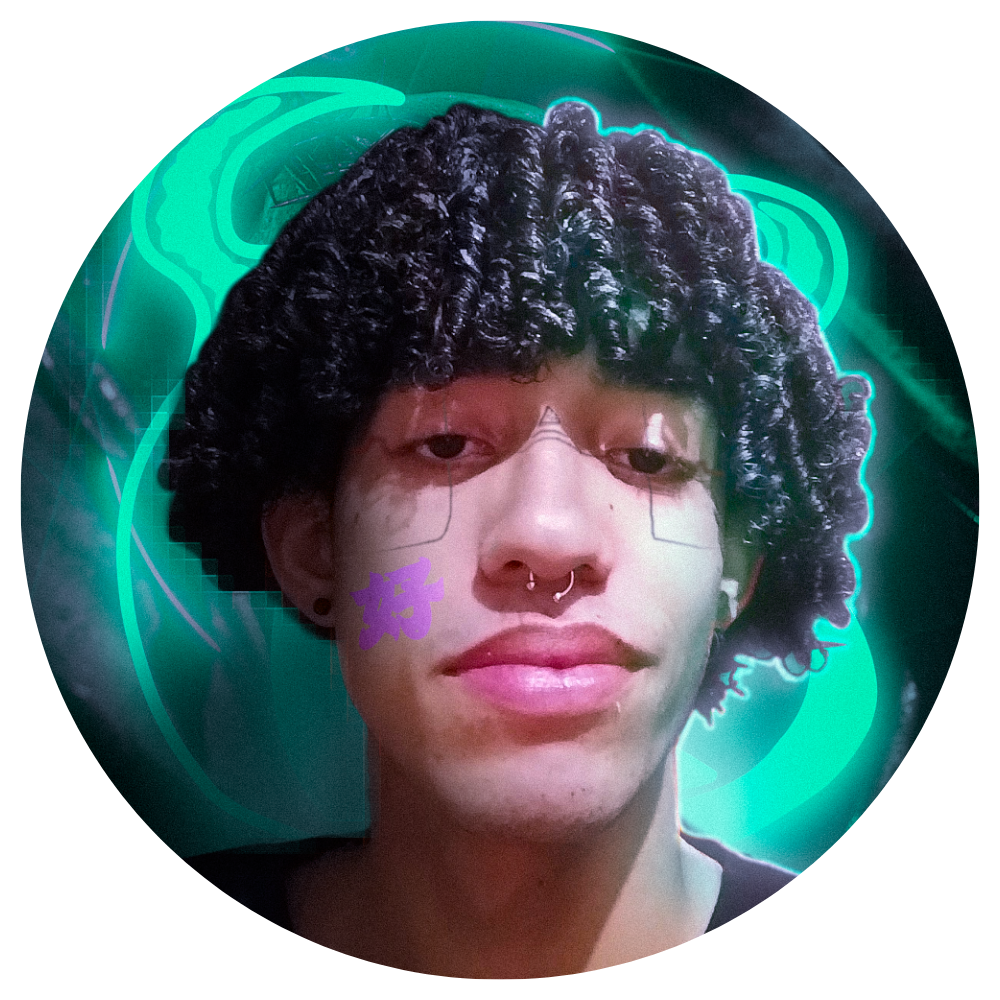
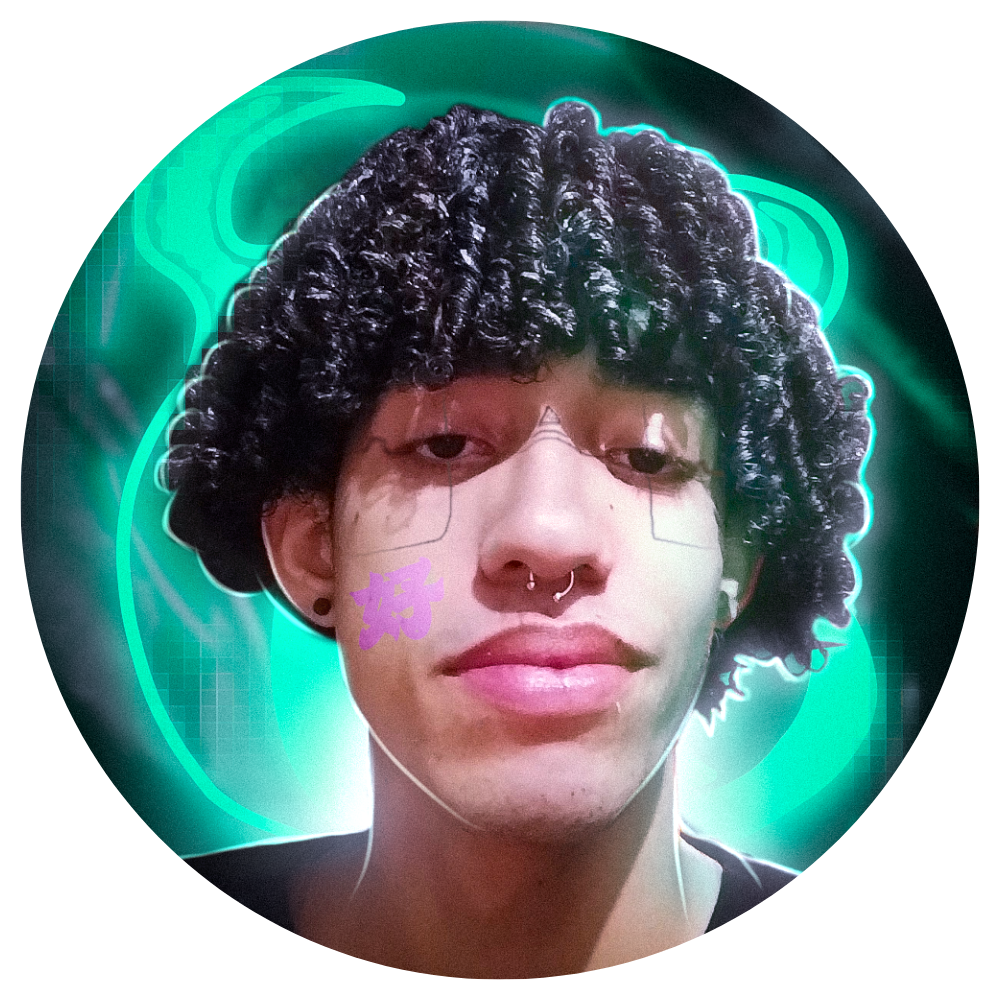
adicionando nova foto de perfil, novas miniaturas de portfolio etc

diff --git a/index.html b/index.html
@@ -112,28 +112,28 @@
         <div class="projects__content grid filters__active" data-content id="projects">
           <article class="projects__card">
             <!-- Insert your image in a rectangular format (Ex: 600 x 400, 1000 x 800, 1200 x 1000, etc) -->
-            <img src="imagens/vovoacai.jpg" alt="" class="projects__img">
+            <img src="imagens/thumbnailsdev.png" alt="" class="projects__img">
 
             <div class="projects__modal">
               <div>
-                <span class="projects__subtitle">Social Media</span>
-                <h3 class="projects__title">Açaíteria</h3>
-                <a href="https://www.behance.net/gallery/196699307/Portfolio-Acaiteria-" class="projects__button button button__small">
-                  <i class="ri-link"></i>
+                <span class="projects__subtitle">Thumbnails</span>
+                <h3 class="projects__title">Portfólio Tecnologia</h3>
+                <a href="https://www.behance.net/gallery/204625009/PORTFOLIO-THUMBNAILS-Tecnologia" class="projects__button button button__small">
+                  <i class="ri-link" style="margin-right: 5px;"></i>  Clique aqui
                 </a>
               </div>
             </div>
           </article>
 
           <article class="projects__card">
-            <img src="imagens/slackjeff.jpg" alt="" class="projects__img">
+            <img src="imagens/thumbnailsgamers.png" alt="" class="projects__img">
 
             <div class="projects__modal">
               <div>
                 <span class="projects__subtitle">Thumbnails</span>
-                <h3 class="projects__title">SlackJeff</h3>
-                <a href="https://www.behance.net/gallery/200901379/Projeto-ReDesign-Slack-Jeff" class="projects__button button button__small">
-                  <i class="ri-link"></i>
+                <h3 class="projects__title">Portfólio Gamers/GFX</h3>
+                <a href="https://www.behance.net/gallery/204626363/PORTFOLIO-THUMBNAILS-2-GFX-Gamers" class="projects__button button button__small">
+                  <i class="ri-link" style="margin-right: 5px;"></i>  Clique aqui
                 </a>
               </div>
             </div>
